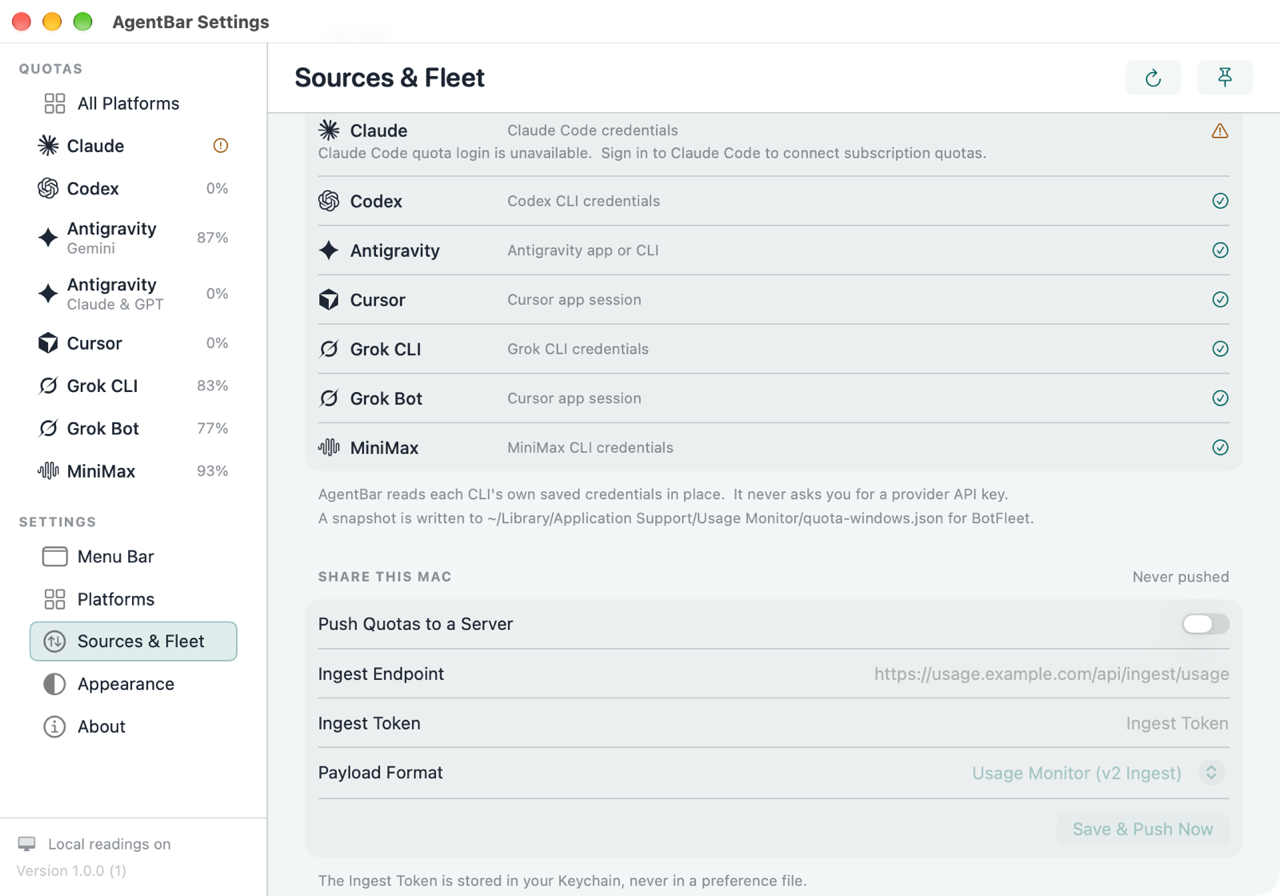
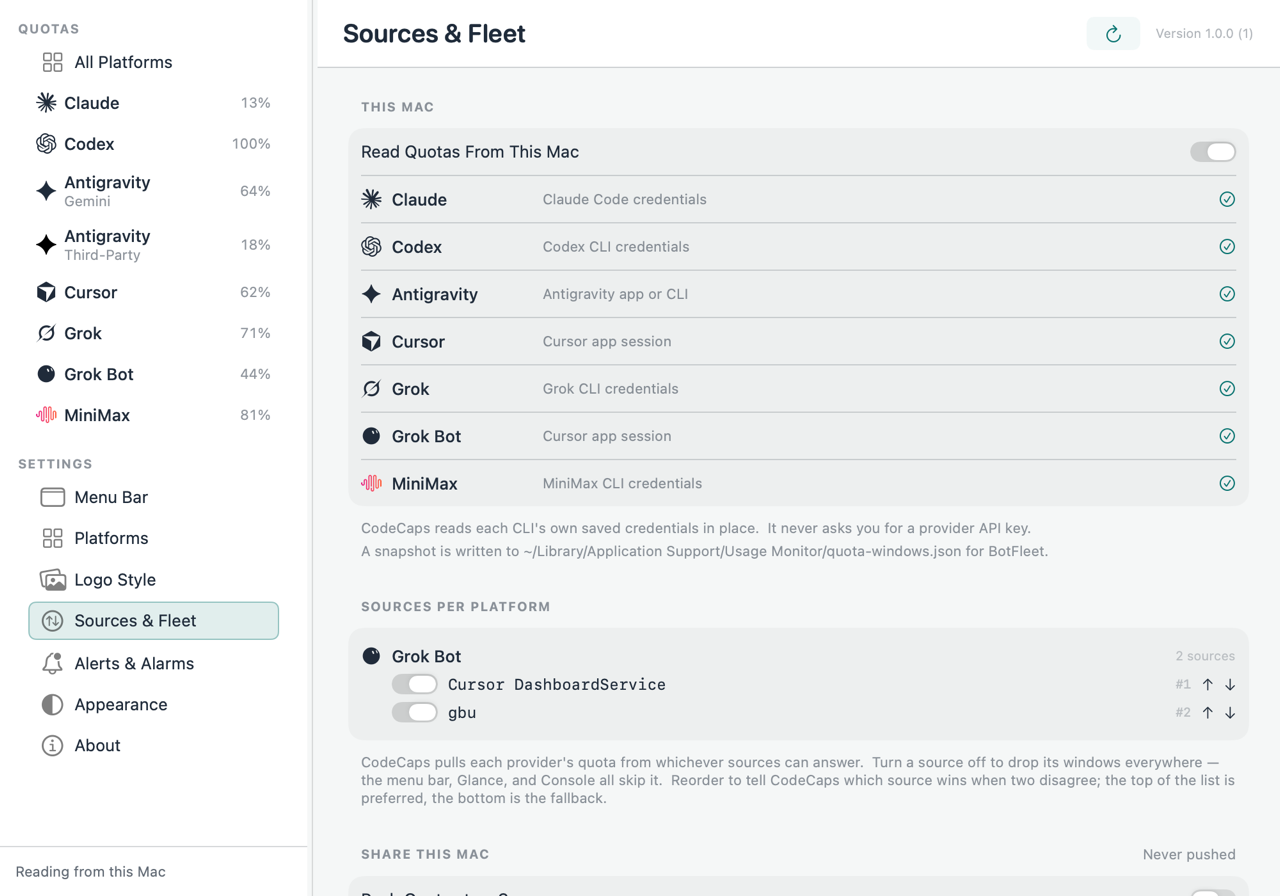
Replace public AgentBar screenshots with current CodeCaps renders.

diff --git a/index.html b/index.html
@@ -134,8 +134,8 @@
       <p style="font-size:13px;color:var(--text-muted);margin-top:14px;">macOS 14 or later · Apple silicon and Intel · Free and open source</p>
     </div>
     <figure class="hero-shot">
-      <img src="screenshots/glance-light.png" alt="Earlier AgentBar build showing quota percentages and reset times in the Glance window" width="772" height="964">
-      <figcaption>Example Glance screen from an earlier AgentBar build; current CodeCaps branding and controls may differ.</figcaption>
+      <img src="screenshots/glance-light.png" alt="CodeCaps Glance showing AI plan quota windows, reset countdowns, and elapsed-time markers" width="1140" height="1006">
+      <figcaption>CodeCaps Glance, rendered from the app with demo readings.&nbsp; No personal usage data is shown.</figcaption>
     </figure>
   </header>
 
@@ -152,8 +152,8 @@
     <h2 id="settings-heading">Your Sources and Fleet Settings</h2>
     <p>Choose local readers and configure fleet connections in the app.&nbsp; Sharing readings requires an endpoint you supply.</p>
     <figure class="settings-shot">
-      <img src="screenshots/settings-sources-fleet.png" alt="Earlier AgentBar build showing local sources and optional fleet settings" width="1280" height="896" loading="lazy" decoding="async">
-      <figcaption>Example Sources &amp; Fleet screen from an earlier AgentBar build; current CodeCaps branding and controls may differ.</figcaption>
+      <img src="screenshots/settings-sources-fleet.png" alt="CodeCaps Sources and Fleet settings with local readers and optional sharing" width="1280" height="896" loading="lazy" decoding="async">
+      <figcaption>CodeCaps Sources &amp; Fleet settings, rendered from the app with demo configuration.</figcaption>
     </figure>
   </section>
 
